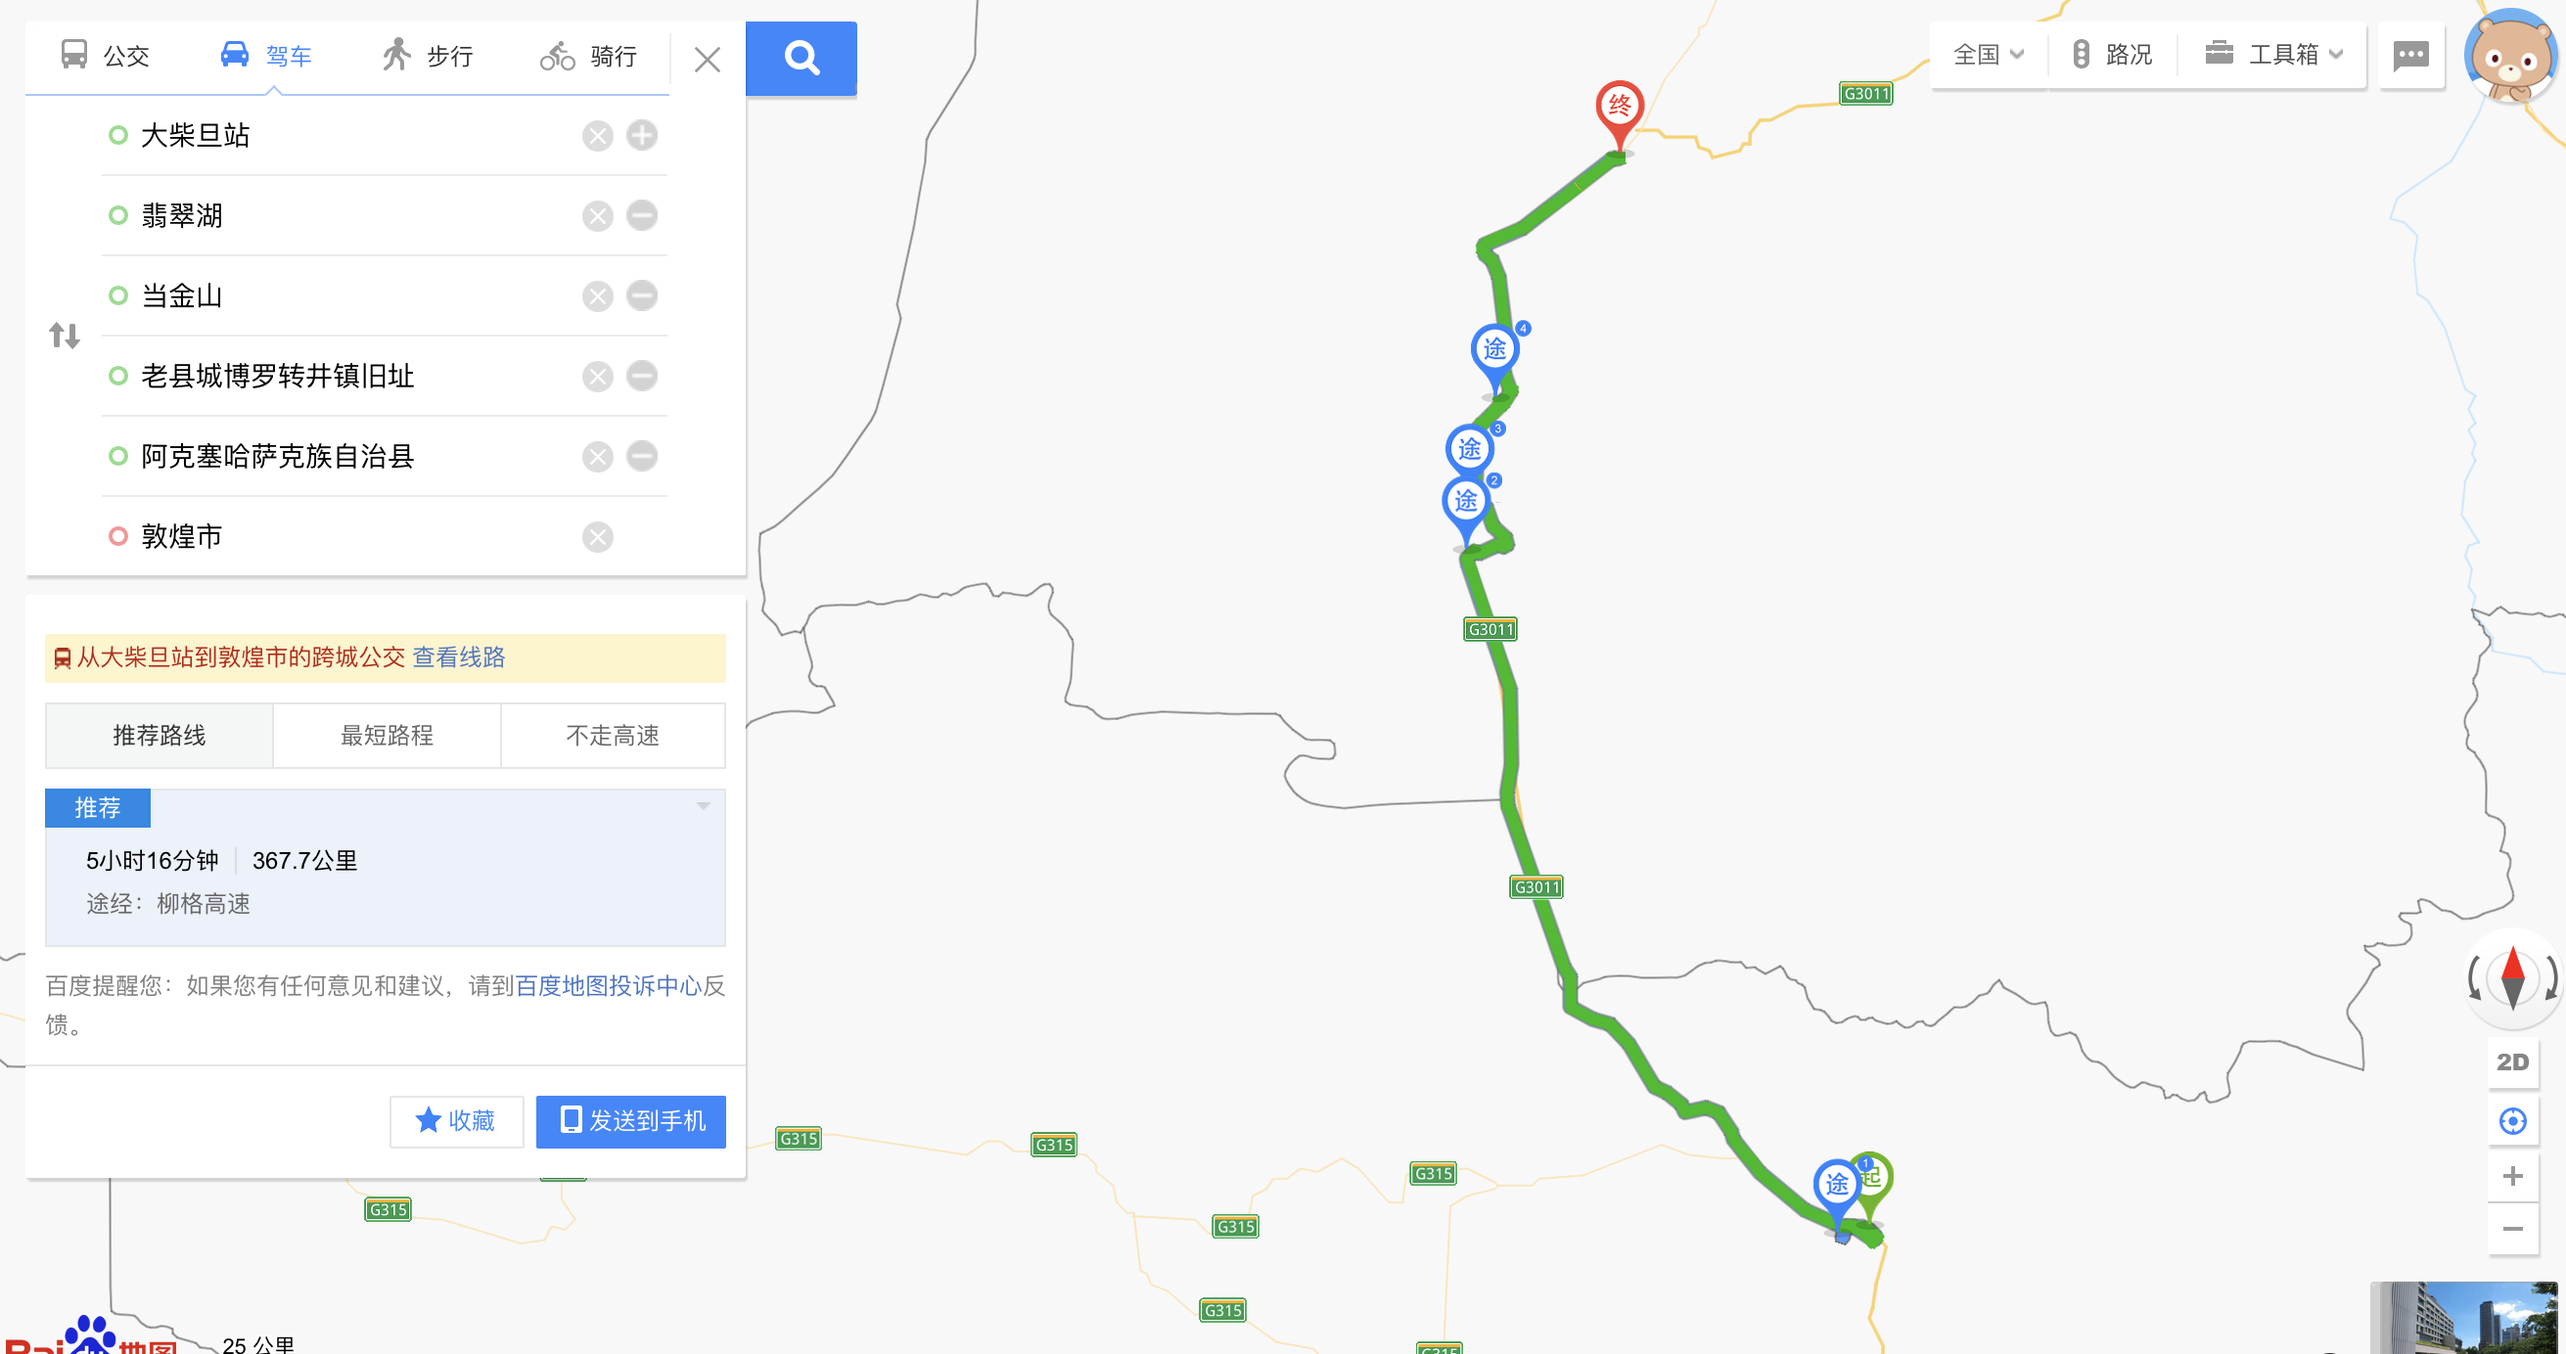
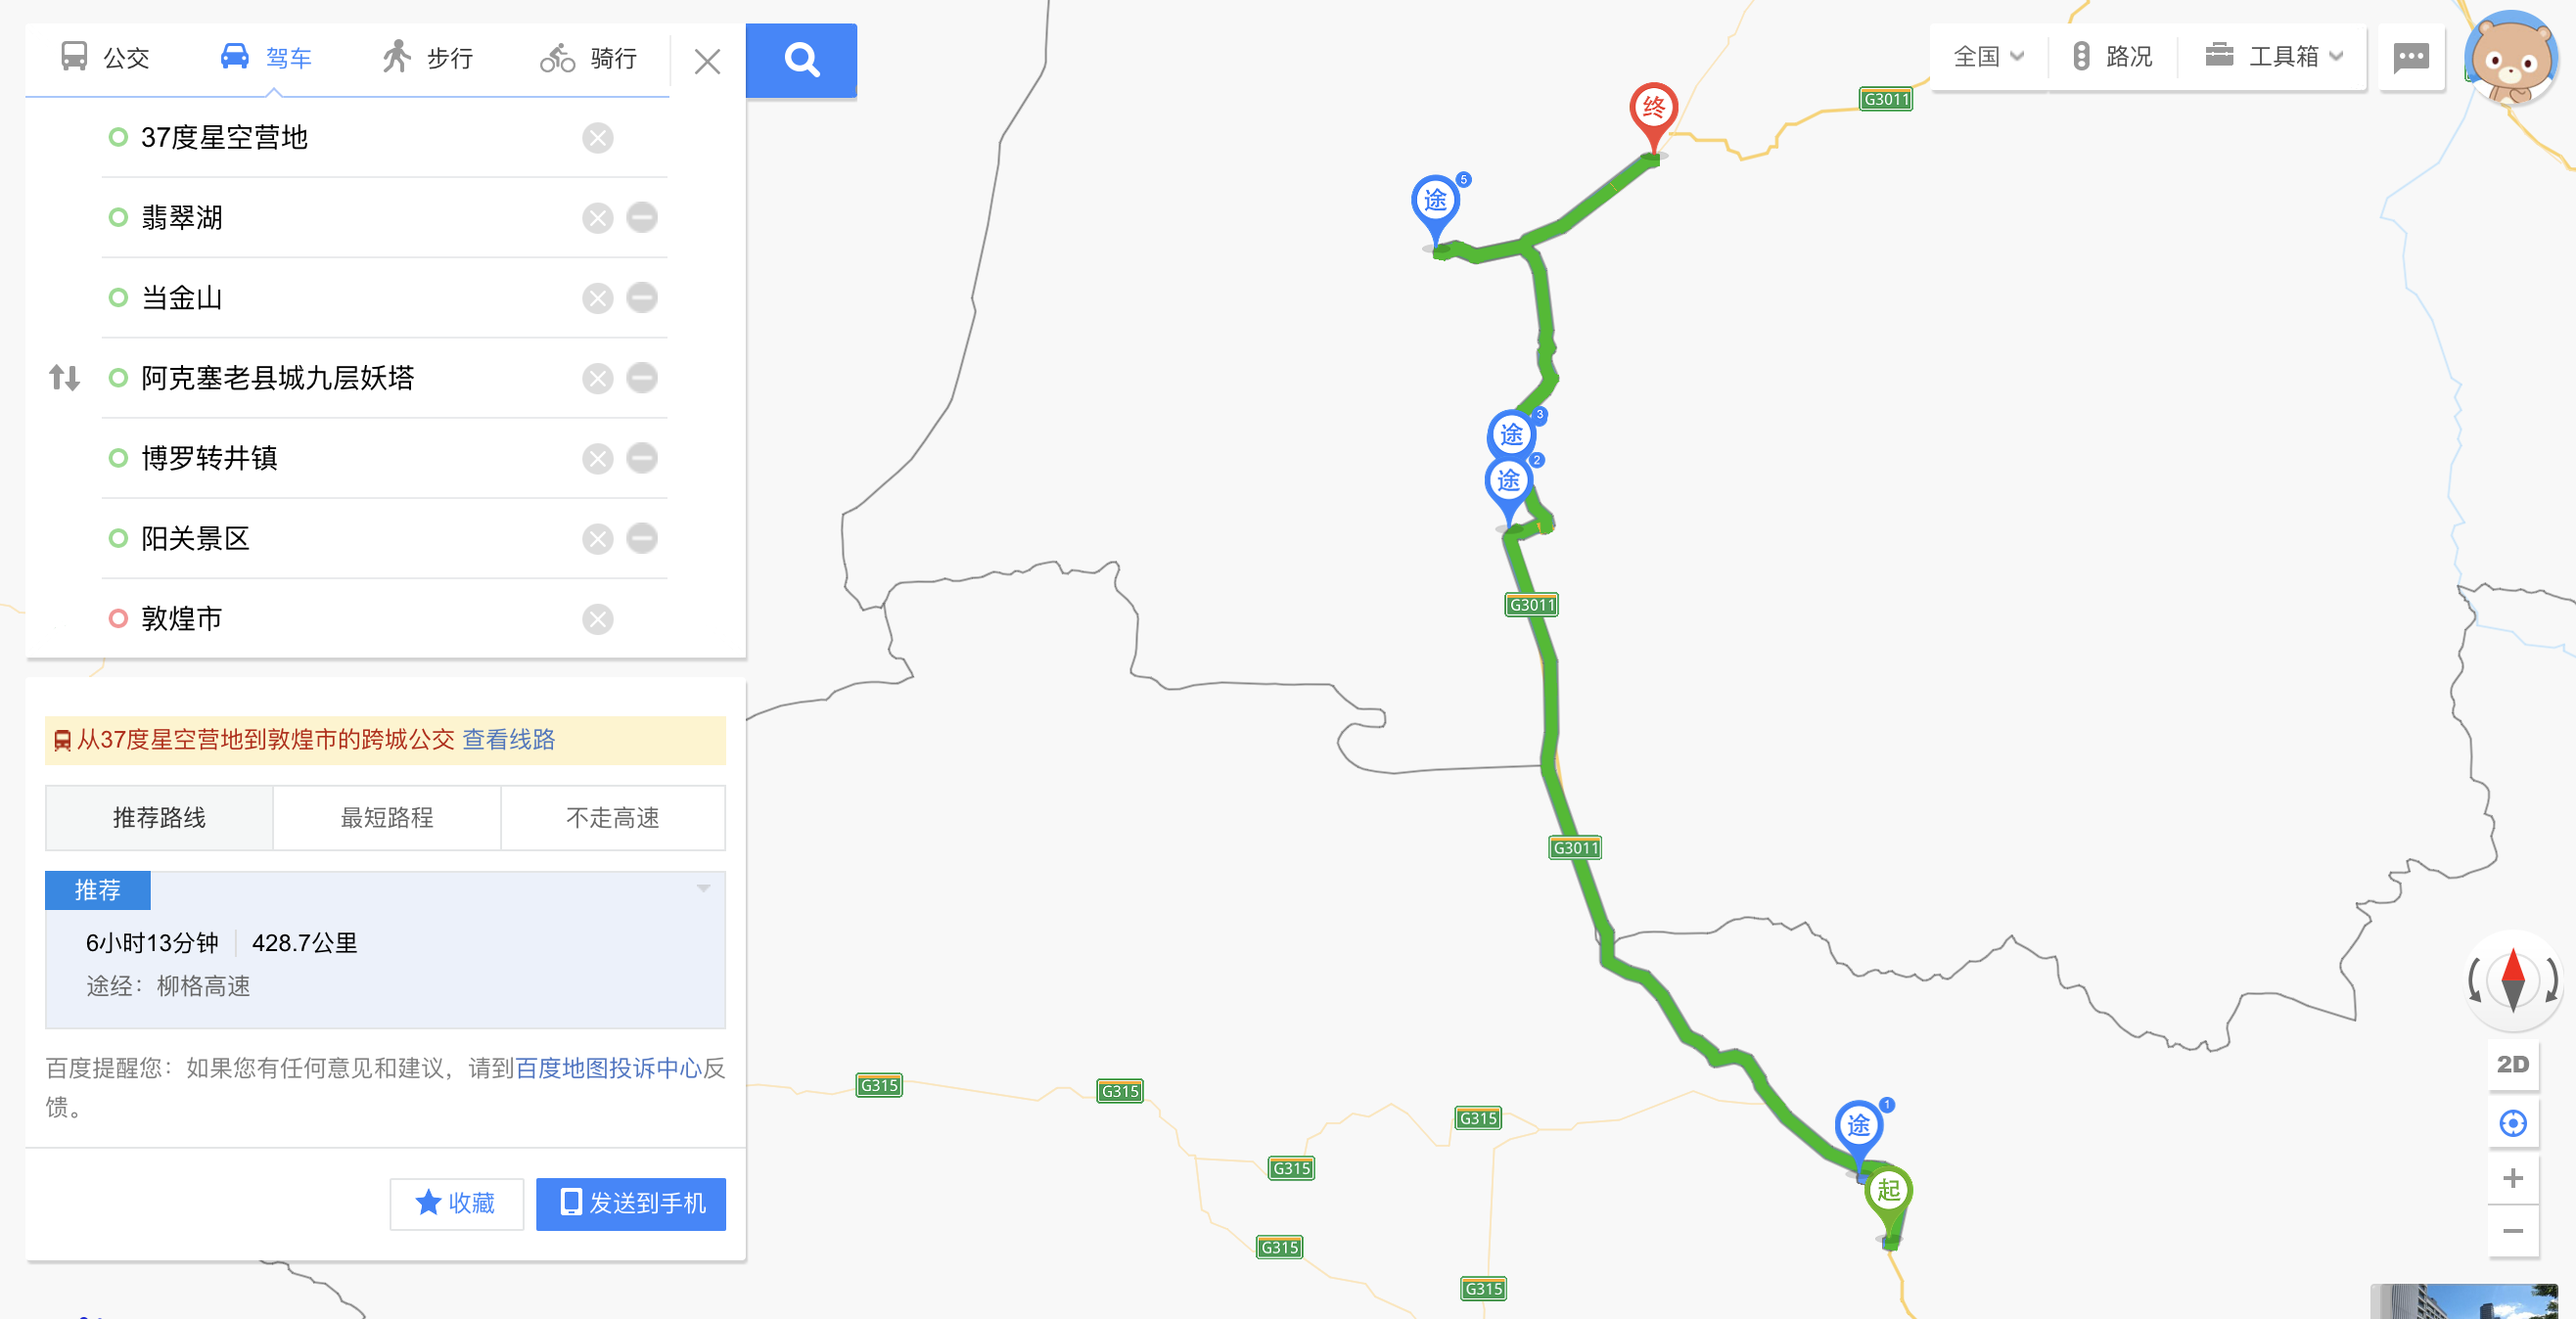
更新

diff --git a/README.md b/README.md
@@ -7,7 +7,7 @@
 19|西宁|取车->塔尔寺->西宁,购买旅途用品(水,零食)|-|西宁君悦假日酒店|超市、天猫半日达购买旅途用品
 20|青海湖|西宁->日月山->青海湖->茶卡盐湖->秘岸客栈|6小时50分钟|秘岸客栈|西宁早餐,午餐塔尔寺
 21|大柴旦|秘岸客栈->德令哈外星人遗址景区->水上雅丹->西台吉乃尔湖(水上公路)->地上雅丹南八仙->大柴旦|11小时15分钟|北纬37度星空营地|-
-22|敦煌|大柴旦->翡翠湖->当金山->博罗转井镇->阿克塞->敦煌|5小时16分钟|沙漠露营地|-
+22|敦煌|大柴旦->翡翠湖->当金山->博罗转井镇->阿克塞->阳关景区->敦煌|6小时13分钟|沙漠露营地|-
 23|敦煌|莫高窟->鸣沙山月牙泉->沙洲夜市|全天敦煌|IU酒店|-
 24|张掖|敦煌->瓜州->嘉峪关->七彩丹霞->张掖|7小时|张掖千玺丝路国际酒店|-
 25||张掖->扁都口->门源景观台->达坂山->祁连大草原->黑泉水库->西宁|9小时|-|-
@@ -99,10 +99,10 @@
 
 ### 必备物品
 
-* 防晒霜、充电宝、离线地图、水壶、多双一次性袜子、口罩
+* 防晒霜、充电宝、离线地图、水壶、多双一次性袜子、口罩、剃须刀
 * 超市: 洗漱用品、毛巾、拖鞋、保鲜袋、小刀、纸巾、矿泉水、食品(干粮、水果)
 * 单反、药(感冒冲剂、坏肚子药、板蓝根)
-* 无人机
+* 无人机、大疆灵眸
 
 ### 特别注意
 
@@ -133,21 +133,23 @@
 
 地点|时间|里程
 -|-|-
-西宁|-|-
-塔尔寺-停车场|40分钟|29.6公里
-塔尔寺游玩|3-4小时|-
-日月山|1小时41分钟|91.8公里
-秘岸客栈|2小时43分钟|152.9公里
-茶卡盐湖|1小时46分钟|106.6公里
-德令哈外星人遗址景区|3小时21分钟|259.6公里
-大柴旦(逆向出发)|2小时30分钟|183.2公里
-水上雅丹|2小时41分钟|224.6公里
-雅丹地貌|1小时20分钟|114.9公里
-最美国道315|-|-
-当金山|2小时46分钟|239.9公里
-博罗转井镇|40分钟|27.7公里
-阿克塞|28分钟|27公里
-敦煌|1小时19分钟|78.4公里
+西宁曹家堡国际机场|-|-
+塔尔寺-停车场|1小时|55公里
+君悦大酒店(昆仑中路店)|36分钟|28.8公里
+青海湖二郎剑景区售票处|3小时1分钟|145.8公里
+茶卡盐湖景区|2小时42分钟|150.5公里
+秘岸客栈|1小时45分钟|106.8公里
+西台吉乃尔湖|8小时13分钟|659.6公里
+乌素特(水上)雅丹地质公园|30分钟|36.4公里
+青海省南八仙公路段(南八仙)|1小时56分钟|157.7公里
+大柴旦|1小时21分钟|100.2公里
+37度星空营地|17分钟|20.9公里
+翡翠湖|35分钟|28.9公里
+当金山|2小时48分钟|220.5公里
+阿克塞老县城九层妖塔|33分钟|26.6公里
+博罗转井镇|6分钟|1.2公里
+阳关景区|1小时9分钟|88.5公里
+敦煌市|56分钟|60.5公里
 瓜州|1小时28分钟|122.3公里
 嘉峪关|2小时38分钟|258公里
 七彩丹霞|2小时18分钟|208.7公里
